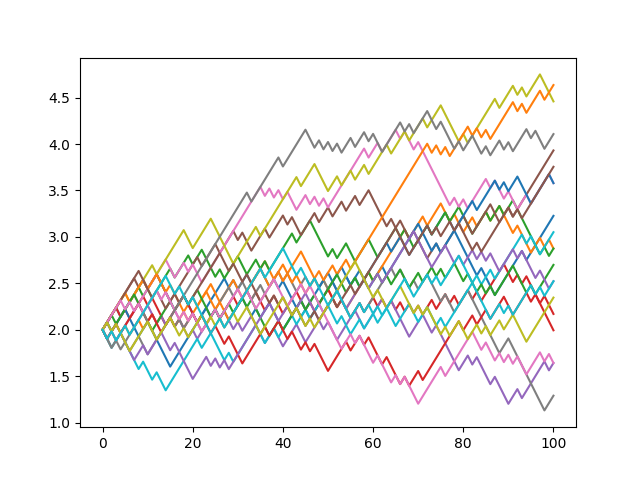
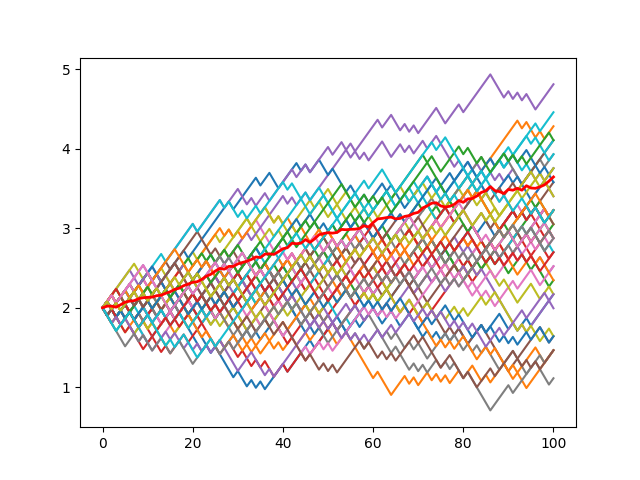
feat: average line plotting

diff --git a/gambling.py b/gambling.py
@@ -73,4 +73,11 @@ for i in range(len(bankroll_history_of_different_games)):
     ax.plot(x, numpy.log10(bankroll_history_of_different_games[i]), label='Data ' + str(i))
     # ax.plot(x, (bankroll_history_of_different_games[i]), label='Data ' + str(i))
 
+# get the average of the bankroll history
+
+average_bankroll = numpy.mean(bankroll_history_of_different_games, axis=0)
+# print(average_bankroll)
+
+ax.plot(x, numpy.log10(average_bankroll), label='Average', color='red', linewidth=2)
+
 plt.savefig("figure2.png")
